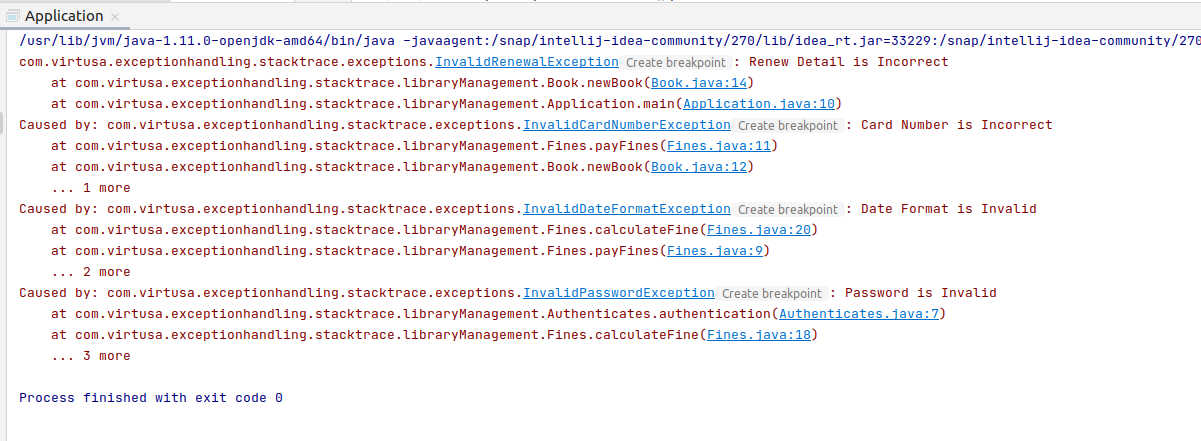
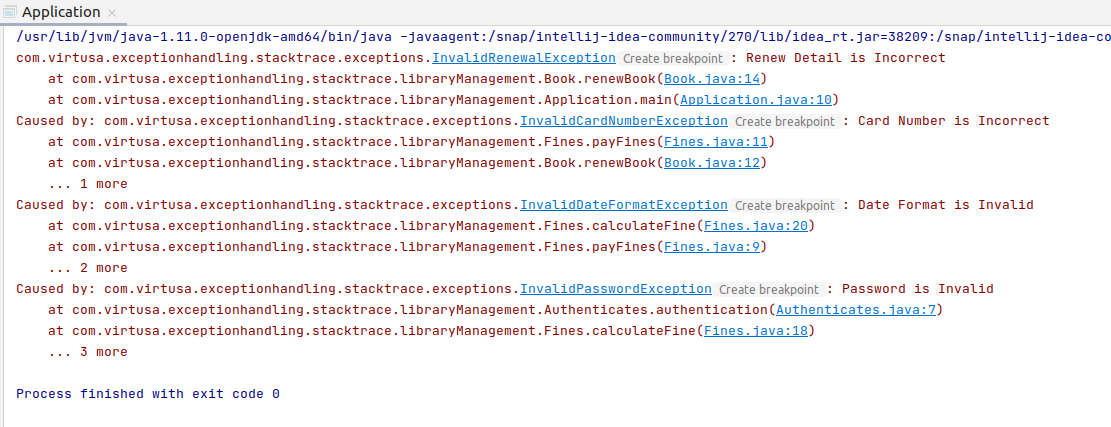
Exception Handling Assignment

Changed region(s): [[0.0, 0.0, 1.0, 0.8525], [0.0, 0.8829, 0.2754, 0.9438]]

diff --git a/ExceptionHandling/src/com/virtusa/exceptionhandling/stacktrace/libraryManagement/Book.java b/ExceptionHandling/src/com/virtusa/exceptionhandling/stacktrace/libraryManagement/Book.java
@@ -6,7 +6,7 @@ import com.virtusa.exceptionhandling.stacktrace.exceptions.InvalidCardNumberExce
 
 
 public class Book {
-    public void newBook() throws InvalidRenewalException{
+    public void renewBook() throws InvalidRenewalException{
         try {
             Fines fines = new Fines();
             fines.payFines();

diff --git a/ExceptionHandling/src/com/virtusa/exceptionhandling/stacktrace/libraryManagement/Application.java b/ExceptionHandling/src/com/virtusa/exceptionhandling/stacktrace/libraryManagement/Application.java
@@ -7,7 +7,7 @@ public class Application {
     public static void main(String[] args) {
         try{
             Book book = new Book();
-            book.newBook();
+            book.renewBook();
 
         } catch(InvalidRenewalException exception){
             exception.printStackTrace();        }
